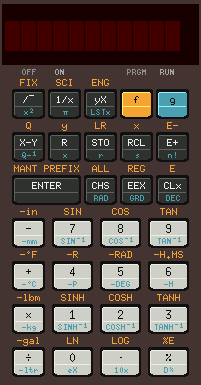
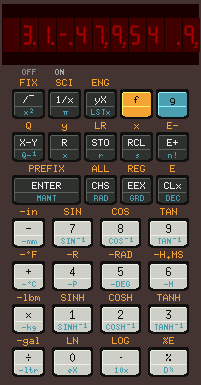
Updated

diff --git a/README.md b/README.md
@@ -41,12 +41,14 @@ examples in the owners handbook..
 ##### HP 29 - Working
 
 ##### HP 31 - Completed (not tested)
-* Self test does not run.
+* Fails self test
 
 ##### HP 32 - Completed (not tested)
-* Self test does not run.
+* Fails self test
 
-##### HP 33 - Only keyboard working
+##### HP 33 - Mostly working
+* Self test does not run (terminates simulation).
+* Some minor issues with the display decoder still to fix
 
 ### Compiling
 
